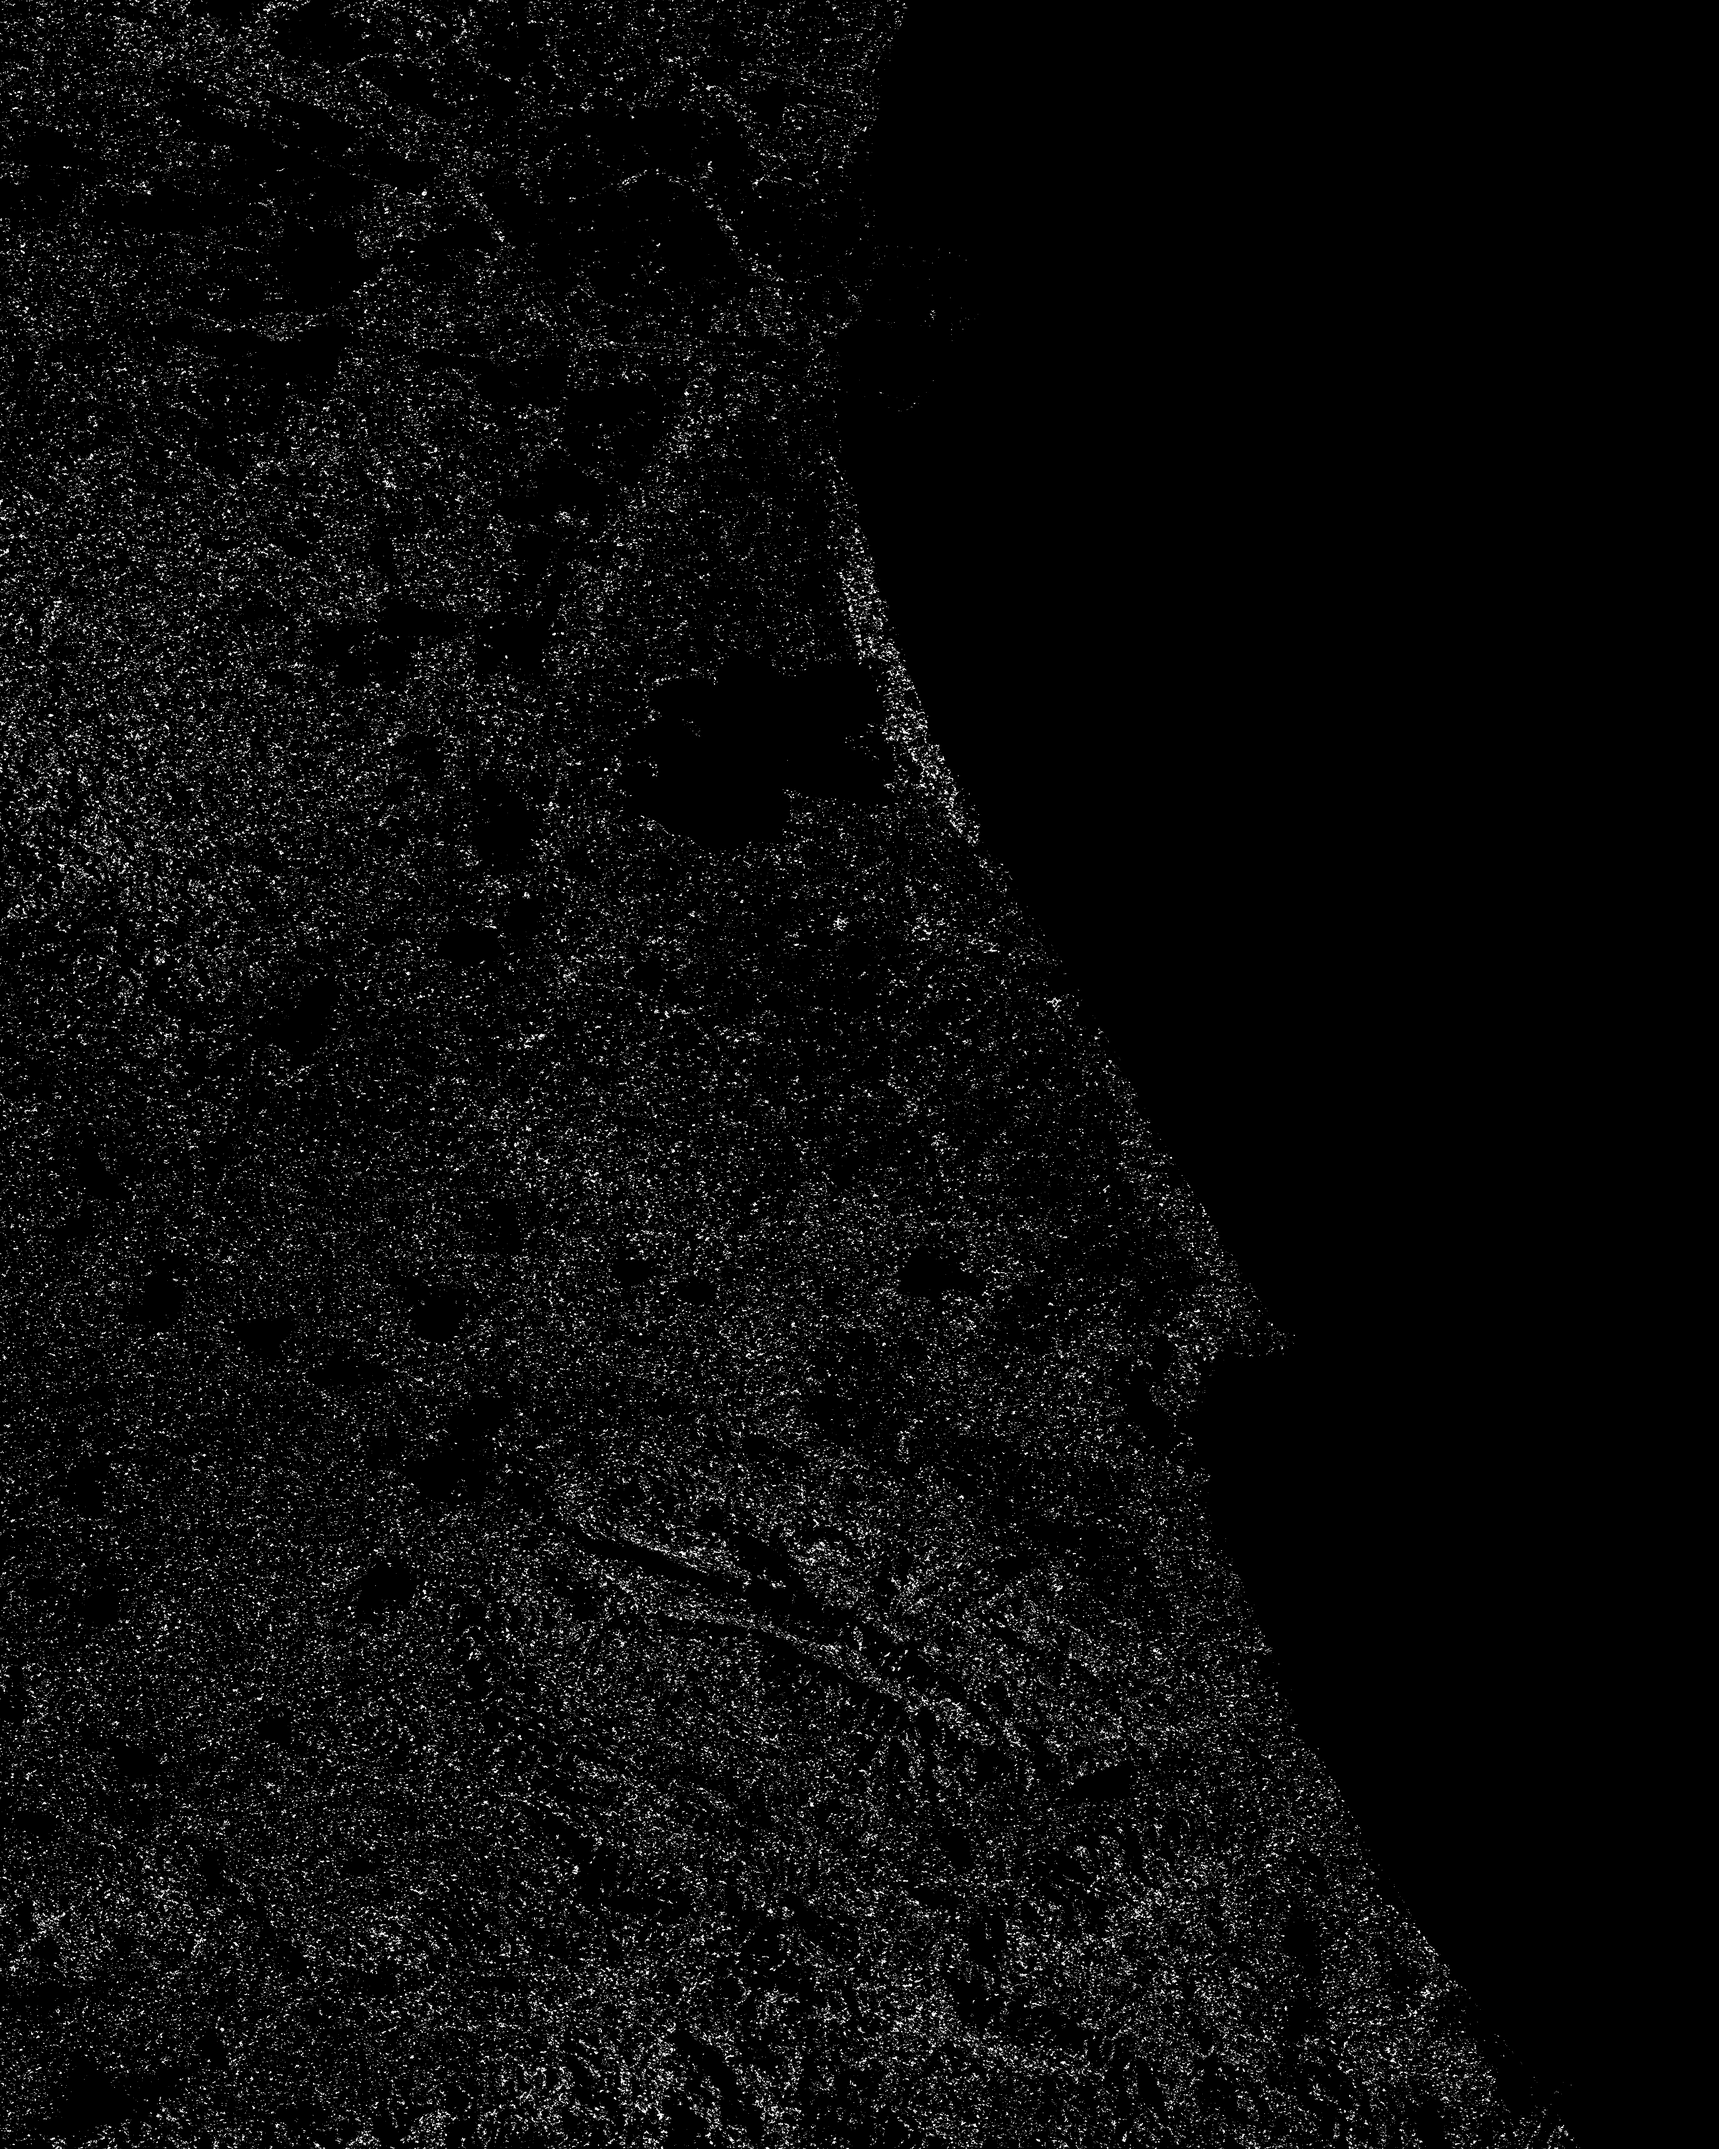
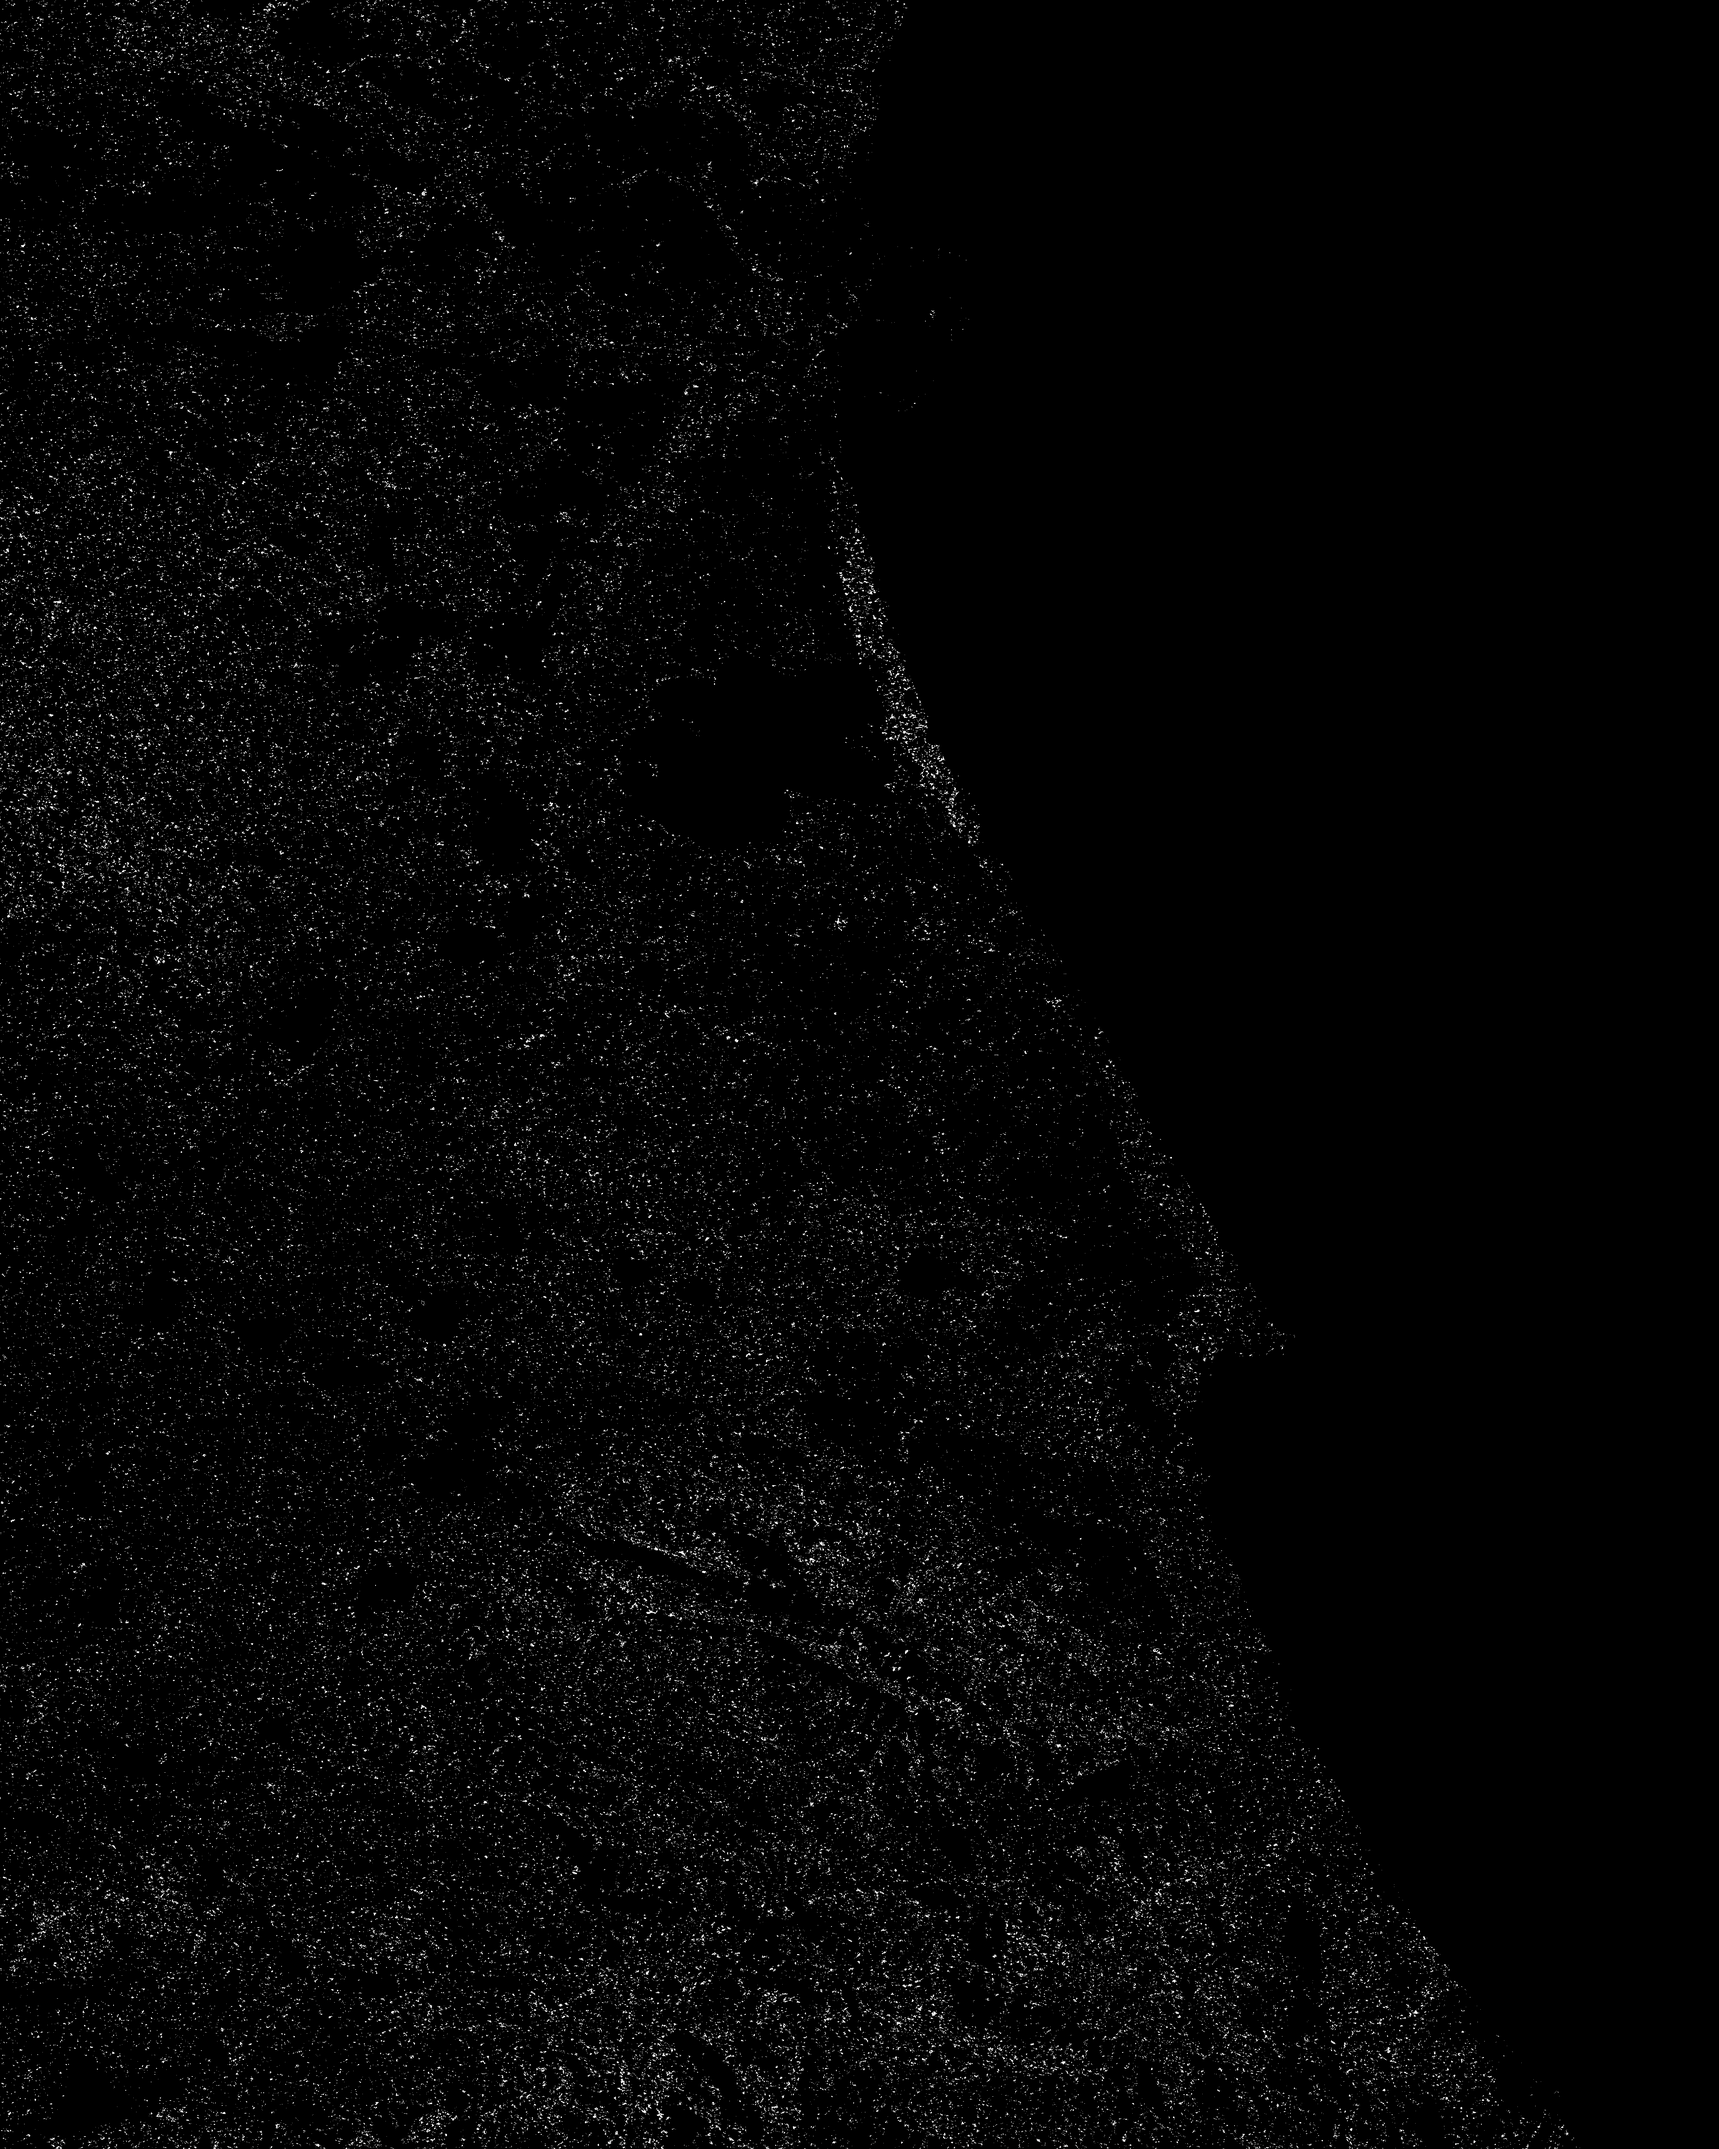
layers actualized

diff --git a/tipe_terrain.py b/tipe_terrain.py
@@ -6,7 +6,7 @@ from dotenv import load_dotenv
 
 # Agua
 COEF_AGUA = {
-    "umbral": 0.05
+    "umbral": 0.02
 }
 
 # Arrozales
@@ -24,12 +24,12 @@ COEF_VEGETACION = {
 
 # Urbano/rocoso
 COEF_URBANO = {
-    "vv_min": 1.8
+    "vv_min": 2
 }
 def main():
     # Configuración
     load_dotenv()
-    ruta_geotiff = os.getenv("RUTA_GEOTIFF2")
+    ruta_geotiff = os.getenv("RUTA_GEOTIFF1")
     
     if not ruta_geotiff or not os.path.exists(ruta_geotiff):
         print("Error: RUTA_GEOTIFF no configurada o archivo no existe")
